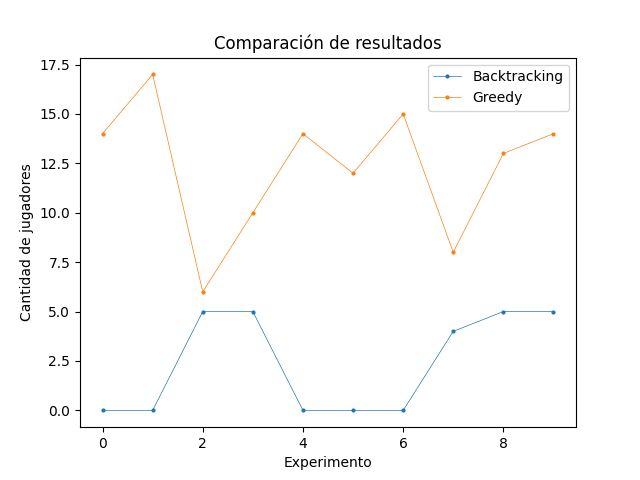
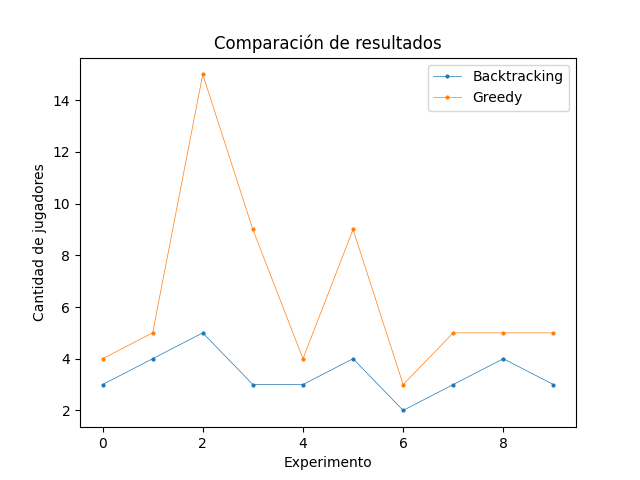
Agregar comparar_resultados

diff --git a/tp3/complejidad_algoritmica.py b/tp3/complejidad_algoritmica.py
@@ -81,7 +81,7 @@ def comparar_complejidad():
 def comparar_resultados():
     tamanios = [(20, 10)]
     cantidad_experimentos = 10
-    probabilidad = 0.15
+    probabilidad = 0.25
     experimentos = generar_experimentos(tamanios, cantidad_experimentos, probabilidad)
 
     soluciones_bt = []
@@ -105,7 +105,7 @@ def comparar_resultados():
 
 def main():
     # Complejidad
-    comparar_complejidad()
+    # comparar_complejidad()
 
     # Resultados
     comparar_resultados()
